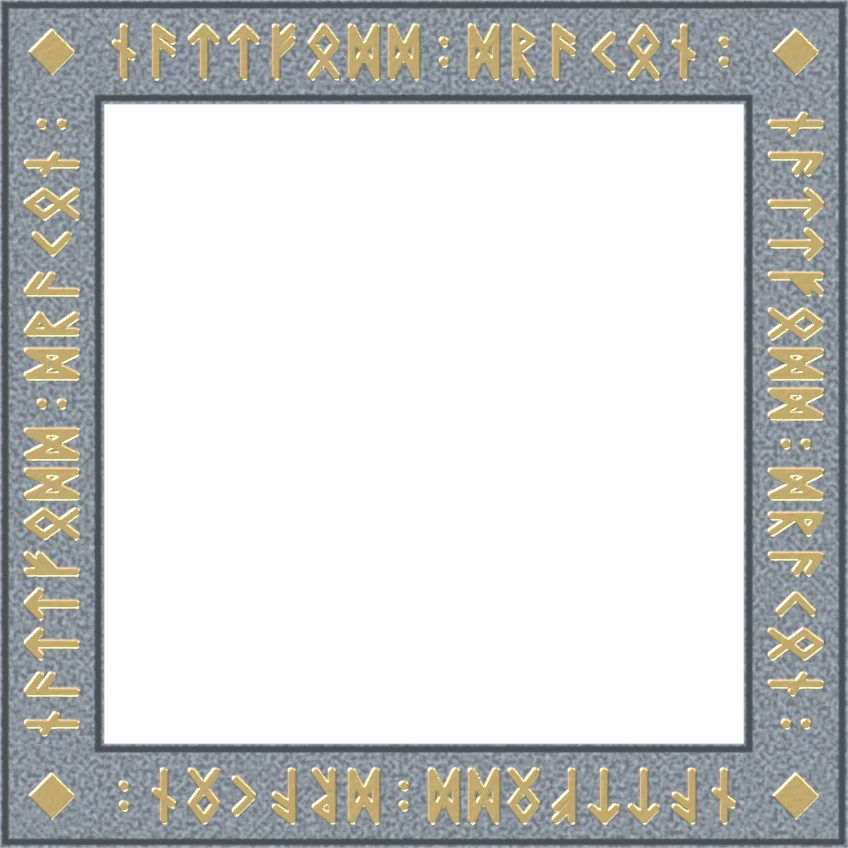
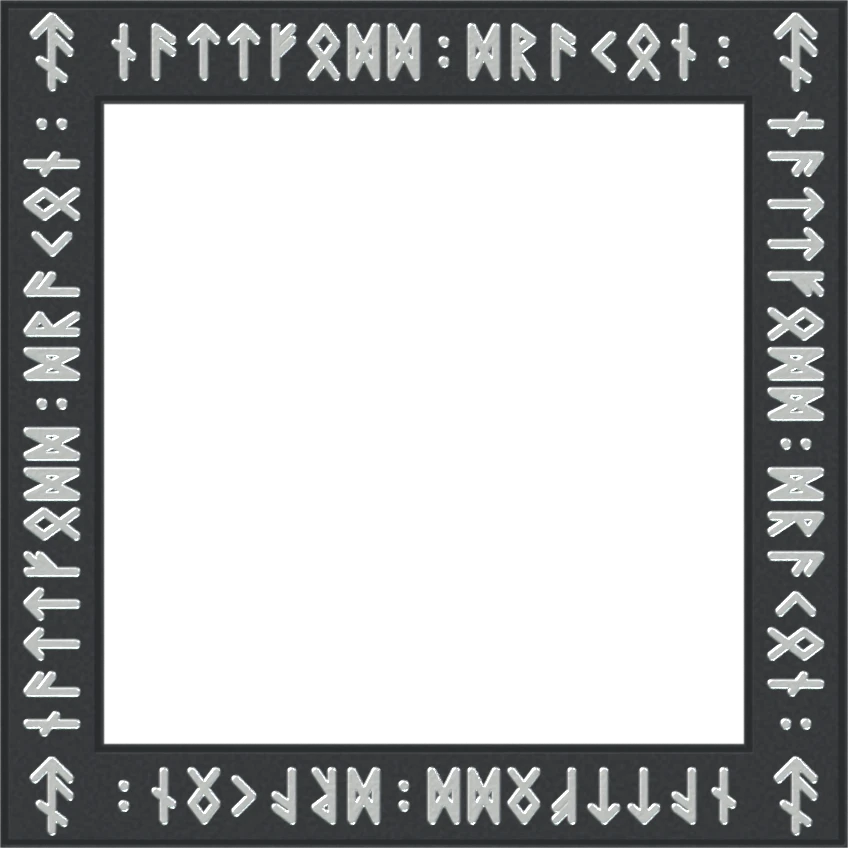
Dark silver rune border round the card, NAT bind runes in the corners
- Corners carry a bind rune of ᚾ ᚨ ᛏ (the first three runes of the title)
  on one stave, kept upright in every corner, instead of the diamond.
- images/rune-border.webp is now silver runes on near-black stone
  (blackslate), and the card uses it (border-image, slice 104). The
  avatar ring stays gold on light slate.
- --fit-vh 1.5vh so the bordered card still fits the window: no scroll at
  14 sizes in Chrome; checked in Firefox at 1920x937.

diff --git a/css/main.css b/css/main.css
@@ -136,3 +136,19 @@ a:focus-visible {
 .--site-main div.component-wrapper[data-type=text][data-id=text01] {
     margin-top: 4.75rem !important
 }
+
+/* Rune border round the card: images/rune-border.webp, a 9-slice image rendered by
+   scripts/render_frame_blender.py --variant border from scripts/make_rune_border.py
+   (silver runes on near-black stone, NAT bind runes in the corners). border-image
+   can't follow rounded corners, so the card's corners are square. */
+.--site-main .--container-component.--instance-container02 {
+    border: 1.75rem solid transparent;
+    border-image: url("../images/rune-border.webp") 104 round;
+    border-radius: 0;
+    background-clip: padding-box
+}
+
+/* the border adds about 3.5rem of height, so fit the card a little smaller */
+:root {
+    --fit-vh: 1.5vh
+}

diff --git a/scripts/make_rune_border.py b/scripts/make_rune_border.py
@@ -32,6 +32,12 @@ GOLD_EDGE = "#5a4317"      # dark rim under the gold, so it reads as inlaid
 LINE = 1.6
 EDGE = 1.4                 # how far the carved edge lines sit inside the band
 
+# Corner mark: a bind rune of ᚾ ᚨ ᛏ (the first three runes of the title) on one
+# stave, in the same 6 x 12 box as the runes: ᛏ's arrow on top, ᚨ sharing the
+# arrow's right arm plus its second branch below, ᚾ's cross-stroke lower down.
+BIND_RUNE = "M3,0V12 M0,3L3,0L6,3 M3,3L6,6 M1,7.5L5,10.5"
+BIND_SCALE = 1.45          # 12 * 1.45 = 17.4 of the 26-wide corner
+
 
 def grain(fid, w, h, raw=False):
     if raw:   # just the grey noise, for the Blender grain map
@@ -95,28 +101,37 @@ def svg(mode="web", scale=1):
       {rune_marks(mode)}
       </g>
     </g>"""
-    # Corner: outer sides are top and left. The edge lines turn the corner, and a
-    # small gold diamond marks it.
+    # Corner: outer sides are top and left. The edge lines turn the corner, and the
+    # NAT bind rune marks it, turned back upright whichever corner it is in.
     c = BAND / 2
-    corner = f"""<g id="corner">
+    k = BIND_SCALE
+
+    def corner(turn):
+        t = f"rotate({-turn},{c},{c}) translate({c - 3 * k},{c - 6 * k}) scale({k})"
+        if mode == "web":
+            mark = (f'<path transform="{t}" d="{BIND_RUNE}" stroke="{gold_edge}" stroke-width="{2.9 / k:.2f}"/>'
+                    f'<path transform="{t}" d="{BIND_RUNE}" stroke="{gold}" stroke-width="{1.5 / k:.2f}"/>')
+        else:
+            mark = f'<path transform="{t}" d="{BIND_RUNE}" stroke="{gold}" stroke-width="{2.1 / k:.2f}"/>'
+        return f"""<g>
       <rect width="{BAND}" height="{BAND}" fill="{stone}"{corner_fill}/>
       <path d="M{BAND},{EDGE}H{EDGE}V{BAND}" stroke="{ink}" stroke-width="{LINE}" fill="none" stroke-linejoin="round"/>
       <path d="M{BAND},{BAND - EDGE}H{BAND - EDGE}V{BAND}" stroke="{ink}" stroke-width="{LINE}" fill="none"/>
-      <path d="M{c},{c - 5}L{c + 5},{c}L{c},{c + 5}L{c - 5},{c}Z" fill="{gold}" stroke="{gold_edge}" stroke-width="1.2"/>
+      <g fill="none" stroke-linecap="round" stroke-linejoin="round">{mark}</g>
     </g>"""
-    place = [  # (element, transform)
-        ("corner", "translate(0,0)"),
-        ("tile", f"translate({BAND},0)"),
-        ("corner", f"translate({S},0) rotate(90)"),
-        ("tile", f"translate({S},{BAND}) rotate(90)"),
-        ("corner", f"translate({S},{S}) rotate(180)"),
-        ("tile", f"translate({S - BAND},{S}) rotate(180)"),
-        ("corner", f"translate(0,{S}) rotate(270)"),
-        ("tile", f"translate(0,{S - BAND}) rotate(270)"),
+
+    tile = tile.replace(' id="tile"', "")
+    place = [  # (piece, transform); each piece written out in full rather than reused with <use>
+        (corner(0), "translate(0,0)"),
+        (tile, f"translate({BAND},0)"),
+        (corner(90), f"translate({S},0) rotate(90)"),
+        (tile, f"translate({S},{BAND}) rotate(90)"),
+        (corner(180), f"translate({S},{S}) rotate(180)"),
+        (tile, f"translate({S - BAND},{S}) rotate(180)"),
+        (corner(270), f"translate(0,{S}) rotate(270)"),
+        (tile, f"translate(0,{S - BAND}) rotate(270)"),
     ]
-    # Each piece is written out in full rather than reused with <use>.
-    pieces = {"tile": tile.replace(' id="tile"', ""), "corner": corner.replace(' id="corner"', "")}
-    uses = "\n  ".join(f'<g transform="{t}">{pieces[e]}</g>' for e, t in place)
+    uses = "\n  ".join(f'<g transform="{t}">{piece}</g>' for piece, t in place)
     background = "" if mode == "web" else f'<rect width="{S}" height="{S}" fill="#000"/>'
     raw = mode == "grain"
     return f"""<svg xmlns="http://www.w3.org/2000/svg" width="{S * scale}" height="{S * scale}" viewBox="0 0 {S} {S}">
